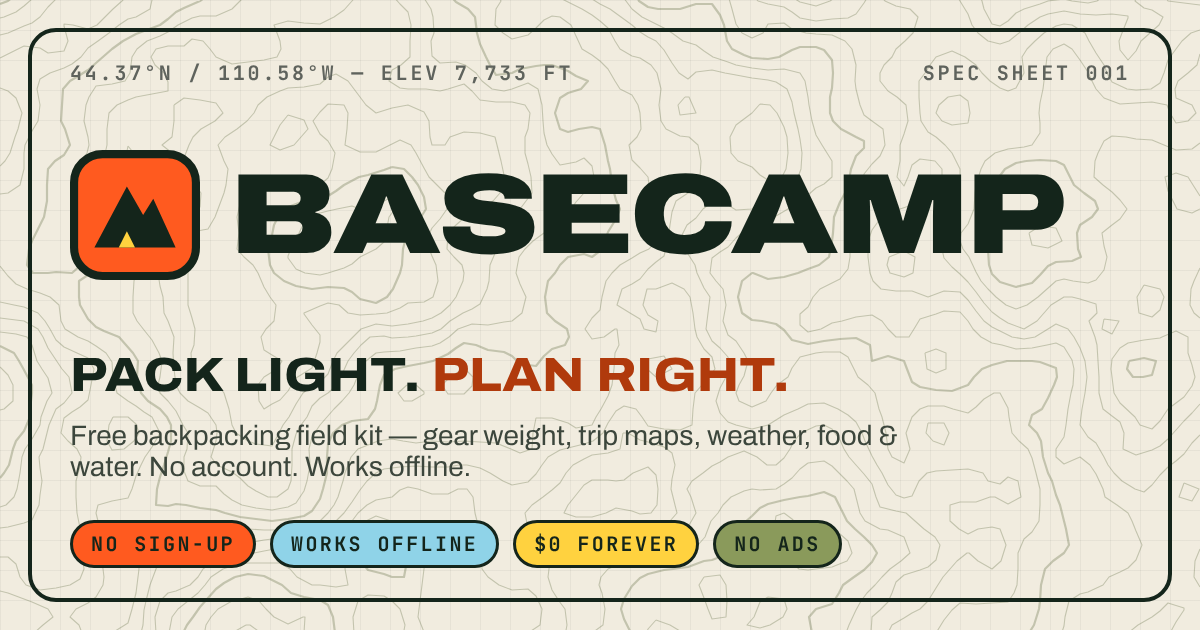
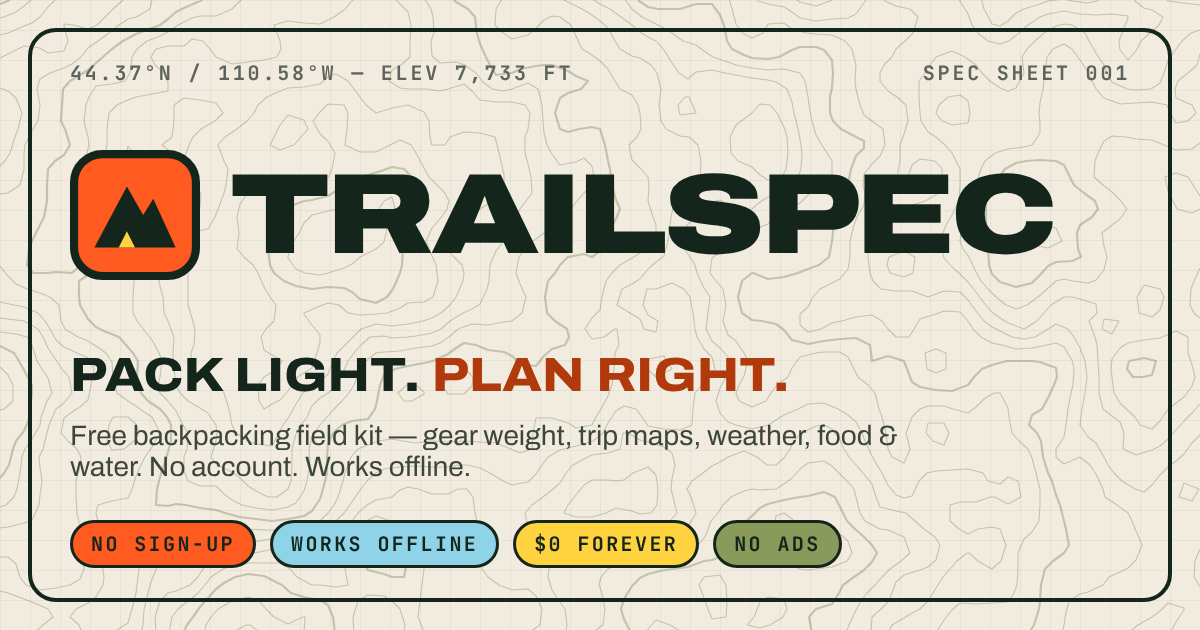
Rename BASECAMP → TRAILSPEC
New name, URLs (vibecoderjb.github.io/trailspec), manifest, social image,
cache names and storage key. Data saved under the old key and old backup
files are migrated automatically.

Claude-Session: https://claude.ai/code/session_01JebKhAJnosFYY8QfXjYQGp

Changed region(s): [[0.185, 0.2714, 0.8942, 0.4222]]

diff --git a/index.html b/index.html
@@ -3,21 +3,21 @@
 <head>
   <meta charset="utf-8">
   <meta name="viewport" content="width=device-width, initial-scale=1, viewport-fit=cover">
-  <title>BASECAMP — Free Backpacking Planner: Gear Weight, Trips, Weather</title>
+  <title>TRAILSPEC — Free Backpacking Planner: Gear Weight, Trips, Weather</title>
   <meta name="description" content="Free, no-account backpacking toolkit. Build a gear list and pack weight, plan trips on a map, check mountain weather, calculate food and water, and work offline on the trail.">
   <meta name="theme-color" content="#14251b">
   <meta name="color-scheme" content="light dark">
 
   <!-- Open Graph / social -->
   <meta property="og:type" content="website">
-  <meta property="og:title" content="BASECAMP — Free Backpacking Planner">
+  <meta property="og:title" content="TRAILSPEC — Free Backpacking Planner">
   <meta property="og:description" content="Gear lists, pack weight, trip maps, weather, food & water math. No account. No ads. Works offline.">
-  <meta property="og:image" content="https://vibecoderjb.github.io/basecamp/assets/og-image.png">
-  <meta property="og:url" content="https://vibecoderjb.github.io/basecamp/">
-  <link rel="canonical" href="https://vibecoderjb.github.io/basecamp/">
+  <meta property="og:image" content="https://vibecoderjb.github.io/trailspec/assets/og-image.png">
+  <meta property="og:url" content="https://vibecoderjb.github.io/trailspec/">
+  <link rel="canonical" href="https://vibecoderjb.github.io/trailspec/">
   <meta property="og:image:width" content="1200">
   <meta property="og:image:height" content="630">
-  <meta property="og:image:alt" content="BASECAMP logo over topographic contour lines">
+  <meta property="og:image:alt" content="TRAILSPEC logo over topographic contour lines">
   <meta name="twitter:card" content="summary_large_image">
 
   <!-- Icons + PWA -->
@@ -36,7 +36,7 @@
   <script>
     (function () {
       var dark = { sapphire: 1, forage: 1, ember: 1 }, t = 'auto';
-      try { t = JSON.parse(localStorage.getItem('basecamp:v1') || '{}').theme || 'auto'; } catch (e) {}
+      try { t = JSON.parse(localStorage.getItem('trailspec:v1') || localStorage.getItem('basecamp:v1') || '{}').theme || 'auto'; } catch (e) {}
       if (t === 'light') t = 'granite'; if (t === 'dark') t = 'sapphire';
       if (t === 'auto' || !/^(granite|sapphire|forage|glacier|ember)$/.test(t)) t = matchMedia('(prefers-color-scheme: dark)').matches ? 'sapphire' : 'granite';
       document.documentElement.dataset.theme = t;
@@ -76,9 +76,9 @@
 
   <header class="site-header">
     <div class="brand-wrap">
-      <a class="brand" href="#/" aria-label="BASECAMP home">
+      <a class="brand" href="#/" aria-label="TRAILSPEC home">
         <svg class="brand-mark" viewBox="0 0 64 64" aria-hidden="true"><path class="bm-fill" d="M0 0h64v50L50 64H0z"/><path class="bm-ink" d="M9 50 27 17l9 16 6-9 13 26z"/><path d="M23 50l4-8 4 8" fill="#ffd23f"/></svg>
-        <span>BASECAMP</span>
+        <span>TRAILSPEC</span>
       </a>
       <span class="save-status" id="save-status" role="status" aria-live="polite" data-status="saved">SAVED</span>
     </div>
@@ -131,7 +131,7 @@
   </dialog>
 
   <main id="main" tabindex="-1">
-    <noscript><div class="callout callout--warn"><strong>JavaScript needed</strong>BASECAMP runs entirely in your browser and needs JavaScript enabled.</div></noscript>
+    <noscript><div class="callout callout--warn"><strong>JavaScript needed</strong>TRAILSPEC runs entirely in your browser and needs JavaScript enabled.</div></noscript>
     <section class="view" id="view-home" data-route="" aria-labelledby="h-home"></section>
     <section class="view" id="view-gear" data-route="gear" aria-labelledby="h-gear" hidden></section>
     <section class="view" id="view-trip" data-route="trip" aria-labelledby="h-trip" hidden></section>
@@ -144,7 +144,7 @@
   </main>
 
   <footer class="site-footer">
-    <div class="footer-mark" aria-hidden="true">BASECAMP</div>
+    <div class="footer-mark" aria-hidden="true">TRAILSPEC</div>
     <div class="lens-bar" aria-hidden="true"></div>
     <div class="row between">
       <p class="readout mb0">FIELD KIT V3 · FREE · NO ACCOUNT · NO ADS · DATA STAYS ON YOUR DEVICE</p>

diff --git a/js/share.js b/js/share.js
@@ -84,7 +84,7 @@ export function render(el) {
         <tr><th scope="row">Trip days / pins</th><td class="num">${state.trip.days.length} / ${state.trip.pins.length}</td></tr>
       </tbody></table>
       <button class="btn btn--sm btn--ghost btn--danger mt" type="button" id="reset">${icon('x')} Erase all data</button>
-      <p class="help mt">Clearing your browser's site data also erases BASECAMP data — export a backup first.</p>
+      <p class="help mt">Clearing your browser's site data also erases TRAILSPEC data — export a backup first.</p>
     </section>
   </div>`;
 
@@ -100,11 +100,11 @@ export function render(el) {
     try { await navigator.clipboard.writeText(input.value); toast('Link copied'); }
     catch { input.select(); toast('Select-all done — copy with your keyboard or long-press'); }
   });
-  $('#share-native', el)?.addEventListener('click', () => navigator.share({ title: `BASECAMP — ${state.gear.name}`, url: $('#share-url', el).value }).catch(() => {}));
+  $('#share-native', el)?.addEventListener('click', () => navigator.share({ title: `TRAILSPEC — ${state.gear.name}`, url: $('#share-url', el).value }).catch(() => {}));
 
   $('#export', el).addEventListener('click', () => {
     const data = { ...state, weather: { loc: state.weather.loc, cache: null } };
-    download(`basecamp-backup-${todayISO()}.json`, JSON.stringify({ app: 'basecamp', exported: new Date().toISOString(), data }, null, 2));
+    download(`trailspec-backup-${todayISO()}.json`, JSON.stringify({ app: 'trailspec', exported: new Date().toISOString(), data }, null, 2));
     toast('Backup downloaded');
   });
 
@@ -113,8 +113,9 @@ export function render(el) {
     try {
       if (file.size > 5e6) throw new Error('File too large');
       const json = JSON.parse(await file.text());
-      const data = json.app === 'basecamp' ? json.data : json;
-      if (!data || typeof data !== 'object' || !(data.gear || data.trip)) throw new Error('Not a BASECAMP backup');
+      // 'basecamp' = backups made before the rename
+      const data = ['trailspec', 'basecamp'].includes(json.app) ? json.data : json;
+      if (!data || typeof data !== 'object' || !(data.gear || data.trip)) throw new Error('Not a TRAILSPEC backup');
       if (!(await confirmBox('Import backup?', `<p>This replaces all data on this device with <strong>${esc(file.name)}</strong>.</p>`, 'Import'))) return;
       replaceState(data); toast('Backup imported');
     } catch (err) { toast(`Import failed: ${err.message}`); }
@@ -143,7 +144,7 @@ export function renderPrint(el) {
     <button class="btn btn--primary" type="button" id="do-print">${icon('print')} Print / Save PDF</button>
   </div>
   <article class="trail-card" aria-labelledby="h-print">
-    <div class="row between"><span>BASECAMP · TRAIL CARD</span><span>${th ? coord(th.lat, th.lng, 4) : ''}</span></div>
+    <div class="row between"><span>TRAILSPEC · TRAIL CARD</span><span>${th ? coord(th.lat, th.lng, 4) : ''}</span></div>
     <h1 id="h-print">${esc(t.name || 'Trip')}</h1>
     <p>${esc(niceDate(t.start, { weekday: 'short', year: 'numeric', month: 'short', day: 'numeric' }))} → ${esc(niceDate(t.end, { weekday: 'short', year: 'numeric', month: 'short', day: 'numeric' }))}
       · ${esc(t.from || '—')} → ${esc(t.to || '—')}</p>
@@ -191,7 +192,7 @@ export function renderPrint(el) {
         </tbody></table>`;
       }).join('')}
     </div>
-    <p style="margin-top:14px;border-top:2px dashed #111;padding-top:8px">✂ Leave a copy with someone you trust. Printed ${new Date().toLocaleDateString()} · basecamp field kit</p>
+    <p style="margin-top:14px;border-top:2px dashed #111;padding-top:8px">✂ Leave a copy with someone you trust. Printed ${new Date().toLocaleDateString()} · trailspec field kit</p>
   </article>`;
   $('#do-print', el).addEventListener('click', () => window.print());
 }

diff --git a/js/app.js b/js/app.js
@@ -1,4 +1,4 @@
-// BASECAMP — app shell: lazy hash router with error boundaries, colorways, units,
+// TRAILSPEC — app shell: lazy hash router with error boundaries, colorways, units,
 // save status, offline status, PWA install, print. Views are loaded on demand.
 import { state, save, subscribe, onSaveStatus, storageProblem } from './store.js';
 import { $, $$, toast, esc } from './utils.js';
@@ -43,7 +43,7 @@ async function loadRoute(r) {
 
 /** Error boundary: a broken view shows a recovery card instead of a blank app. */
 function renderError(el, err, title) {
-  console.error(`BASECAMP view error (${title}):`, err);
+  console.error(`TRAILSPEC view error (${title}):`, err);
   el.innerHTML = `<div class="card fault" role="alert">
     <div class="card-head"><h2>Module fault</h2><span class="label">${esc(title)}</span></div>
     <p>This screen hit a problem and couldn't load. <strong>Your saved data is safe</strong> — it lives on this device.</p>
@@ -96,7 +96,7 @@ async function route() {
   $$('.view').forEach((v) => { v.hidden = v.dataset.route !== r; });
   const el = $(`.view[data-route="${r}"]`);
   updateNav(r);
-  document.title = `${def.title}${params.slug && r === 'guide' ? ' · Guide' : ''} — BASECAMP`;
+  document.title = `${def.title}${params.slug && r === 'guide' ? ' · Guide' : ''} — TRAILSPEC`;
 
   if (!loaded.has(r)) {
     el.innerHTML = `<div class="loading-view" role="status"><span class="spinner" aria-hidden="true"></span>LOADING ${esc(def.title.toUpperCase())}…</div>`;
@@ -157,7 +157,7 @@ onSaveStatus(({ status, at }) => {
 /* ---------- Global safety net ---------- */
 let lastErrToast = 0;
 function onGlobalError(err) {
-  console.error('BASECAMP:', err);
+  console.error('TRAILSPEC:', err);
   if (Date.now() - lastErrToast > 10000) { lastErrToast = Date.now(); toast('Something went wrong, but your data is safe. Try that again.'); }
 }
 addEventListener('error', (e) => { if (e.error) onGlobalError(e.error); });

diff --git a/css/styles.css b/css/styles.css
@@ -1,5 +1,5 @@
 /* ==========================================================================
-   BASECAMP — design system v2 · "Technical Shell"
+   TRAILSPEC — design system v2 · "Technical Shell"
    Technical-apparel minimalism (hairlines, crop marks, spec sheets) crossed
    with sport-optics energy (wide italic display, chamfered cuts, an
    iridescent "lens" accent). Mobile-first.
@@ -745,7 +745,7 @@ dialog::backdrop { background: rgba(5, 8, 10, .62); backdrop-filter: blur(3px); 
 /* Footer wordmark */
 .footer-mark {
   margin-top: 48px; font-weight: 900; font-style: italic; font-stretch: 125%; text-transform: uppercase; line-height: .78;
-  font-size: min(12.2vw, 9.2rem); letter-spacing: -.045em; color: transparent; -webkit-text-stroke: 1.5px var(--rule-strong);
+  font-size: min(10.6vw, 8.2rem); letter-spacing: -.045em; color: transparent; -webkit-text-stroke: 1.5px var(--rule-strong);
   opacity: .45; white-space: nowrap; overflow: hidden; user-select: none;
 }
 .site-footer .lens-bar { margin: 6px 0 14px; }

diff --git a/js/store.js b/js/store.js
@@ -6,13 +6,15 @@
 import { normalize, defaults, rowToItem, defaultChecklist, SCHEMA_VERSION } from './core/schema.js';
 
 export { defaults, rowToItem, defaultChecklist, SCHEMA_VERSION };
-/** Storage key is stable across schema versions — data is migrated in place. */
-export const STORAGE_KEY = 'basecamp:v1';
+/** Storage key is stable across schema versions — data is migrated in place.
+ *  LEGACY_KEY is where data lived before the BASECAMP → TRAILSPEC rename; it is read once and copied over. */
+export const STORAGE_KEY = 'trailspec:v1';
+export const LEGACY_KEY = 'basecamp:v1';
 
 let loadError = null;
 function load() {
   try {
-    const raw = localStorage.getItem(STORAGE_KEY);
+    const raw = localStorage.getItem(STORAGE_KEY) ?? localStorage.getItem(LEGACY_KEY);
     return raw ? normalize(JSON.parse(raw)) : defaults();
   } catch (e) {
     loadError = e; // corrupted JSON or storage blocked — start fresh but tell the user

diff --git a/js/home.js b/js/home.js
@@ -92,7 +92,7 @@ export function render(el) {
   const wx = state.weather.cache?.data;
   el.innerHTML = `
   <section class="hero topo" aria-labelledby="h-home">
-    <div class="coord-strip"><span class="readout">${th ? coord(th.lat, th.lng) : '44.37°N / 110.58°W'} — ELEV ${th ? '—' : '7,733 FT'}</span><span class="readout">REF BC-003 · FIELD KIT · COLORWAY <span class="cw-ref"></span></span></div>
+    <div class="coord-strip"><span class="readout">${th ? coord(th.lat, th.lng) : '44.37°N / 110.58°W'} — ELEV ${th ? '—' : '7,733 FT'}</span><span class="readout">REF TS-003 · FIELD KIT · COLORWAY <span class="cw-ref"></span></span></div>
     <div class="hero-copy">
       <span class="kicker">Free backpacking field kit</span>
       <h1 id="h-home">Pack light.<br><span class="accent">Plan right.</span></h1>

diff --git a/sw.js b/sw.js
@@ -1,9 +1,9 @@
-/* BASECAMP service worker — offline-first app shell.
+/* TRAILSPEC service worker — offline-first app shell.
    Bump VERSION whenever you change any file so clients pick up the update. */
-const VERSION = 'basecamp-v3.0.0';
+const VERSION = 'trailspec-v3.1.0';
 const SHELL = `${VERSION}-shell`;
 const RUNTIME = `${VERSION}-runtime`;
-const TILES = 'basecamp-tiles';        // kept across versions
+const TILES = 'trailspec-tiles';       // kept across versions
 const MAX_TILES = 400;                  // modest cap — respects OSM tile usage policy (no bulk prefetch)
 
 // Relative URLs so the app works from any sub-path (e.g. GitHub Pages /repo/).

diff --git a/js/map.js b/js/map.js
@@ -1,5 +1,5 @@
 // Lazy loader for Leaflet (free, from the unpkg CDN with Subresource Integrity)
-// and helpers for BASECAMP's custom pin markers.
+// and helpers for TRAILSPEC's custom pin markers.
 
 const LEAFLET = {
   css: { href: 'https://unpkg.com/leaflet@1.9.4/dist/leaflet.css', integrity: 'sha256-p4NxAoJBhIIN+hmNHrzRCf9tD/miZyoHS5obTRR9BMY=' },

diff --git a/README.md b/README.md
@@ -1,6 +1,8 @@
-# BASECAMP — free backpacking field kit
+# TRAILSPEC — free backpacking field kit
 
-**Live:** https://vibecoderjb.github.io/basecamp/
+**Live:** https://vibecoderjb.github.io/trailspec/
+
+_Formerly "BASECAMP". Data saved under the old name is picked up automatically, and old backup files still import._
 
 A free, offline-capable web app for backpackers. No account, no ads, no paywall, no backend.
 Everything runs in the browser, and your data stays in `localStorage` on your device.
@@ -23,7 +25,7 @@ Everything runs in the browser, and your data stays in `localStorage` on your de
 You don't need a build step or dependencies, just any static file server. ES modules and service workers need `http://`, so opening the file directly with `file://` won't work.
 
 ```bash
-cd basecamp
+cd trailspec
 ```
 
 ```bash
@@ -36,15 +38,15 @@ Then open <http://localhost:8080>. (`npx serve .` works too.)
 
 ### GitHub Pages
 
-1. Create an empty repository on GitHub called `basecamp` (no README).
+1. Create an empty repository on GitHub called `trailspec` (no README).
 2. Either click **uploading an existing file** and drag in the *contents* of this folder (so `index.html` sits at the top level of the repo, not inside a folder), or from this folder run:
 
 ```bash
-git init -b main && git add -A && git commit -m "BASECAMP"
+git init -b main && git add -A && git commit -m "TRAILSPEC"
 ```
 
 ```bash
-git remote add origin https://github.com/YOUR-USERNAME/basecamp.git
+git remote add origin https://github.com/YOUR-USERNAME/trailspec.git
 ```
 
 ```bash
@@ -52,19 +54,19 @@ git push -u origin main
 ```
 
 3. On GitHub, go to **Settings → Pages → Build and deployment**, set **Source: Deploy from a branch** and **Branch: `main` / `/ (root)`**, then click **Save**.
-4. After about a minute the site is live at `https://YOUR-USERNAME.github.io/basecamp/`.
+4. After about a minute the site is live at `https://YOUR-USERNAME.github.io/trailspec/`.
 
 All paths are relative, so the app works from a sub-path. `.nojekyll` stops GitHub from processing the files.
 
 ### Netlify (backup option)
 
-- **Drag & drop:** go to <https://app.netlify.com/drop> and drop the `basecamp` folder.
+- **Drag & drop:** go to <https://app.netlify.com/drop> and drop the `trailspec` folder.
 - **From Git:** use **Add new site → Import from Git**, pick the repo, leave the build command empty and set the publish directory to `.`. `netlify.toml` already configures this.
 
 ### After deploying
 
-- Change `og:image` in `index.html` to an absolute URL (e.g. `https://YOUR-USERNAME.github.io/basecamp/assets/og-image.png`), because social networks need absolute image URLs.
-- **Every time you change files, bump `VERSION` in `sw.js`** and add any new files to `SHELL_FILES` there; `npm test` fails if you forget (e.g. `basecamp-v1.0.1`). Installed copies then update, and users see a "New version ready" toast.
+- Change `og:image` in `index.html` to an absolute URL (e.g. `https://YOUR-USERNAME.github.io/trailspec/assets/og-image.png`), because social networks need absolute image URLs.
+- **Every time you change files, bump `VERSION` in `sw.js`** and add any new files to `SHELL_FILES` there; `npm test` fails if you forget (e.g. `trailspec-v3.1.1`). Installed copies then update, and users see a "New version ready" toast.
 
 ## Project structure
 
